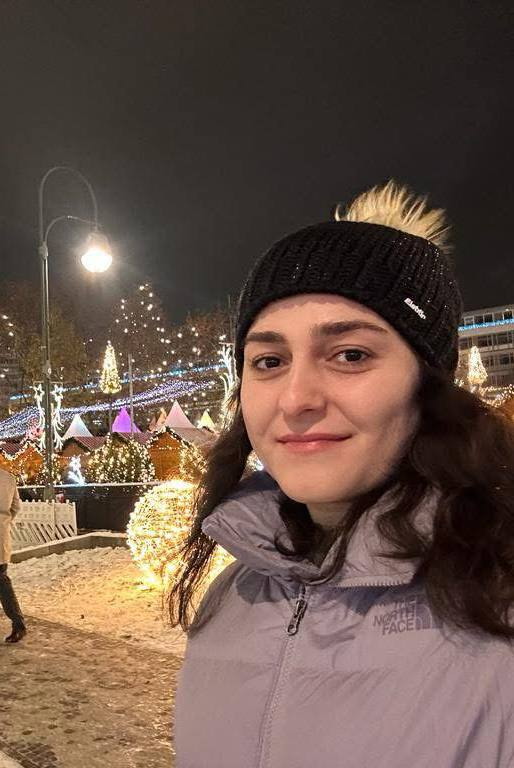
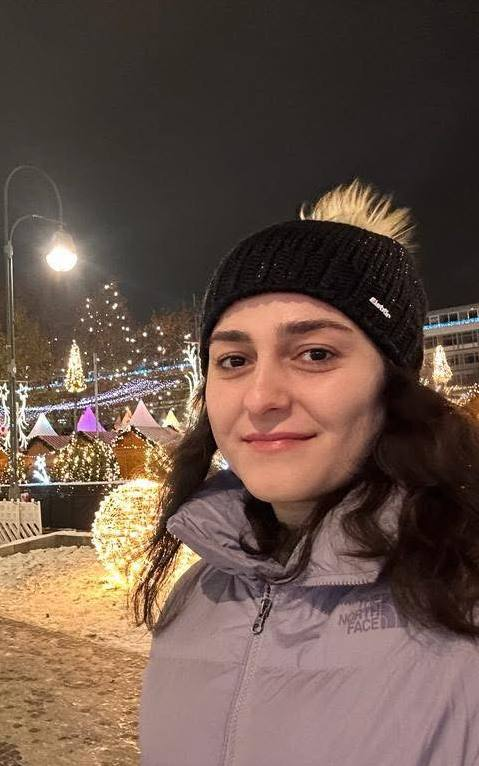
update

Changed region(s): [[0.0, 0.2102, 0.9937, 1.0], [0.8476, 0.9608, 0.9061, 1.0]]

diff --git a/index.html b/index.html
@@ -274,6 +274,7 @@
           <img src="scan_pic_rezaei.jpg" alt="Atefeh Rezaei">
           <p>
             Ph.D. Candidate &amp; Research Engineer<br>
+            School of Electrical Engineering Computer Science<br>
             TU Berlin<br>
             Berlin, Germany<br>
             E-mail: <a href="mailto:atefeh.rezaei@ieee.org">atefeh.rezaei@ieee.org</a><br>
@@ -281,19 +282,14 @@
           </p>
         </div>
 
-        <h2>Research Interests</h2>
-        <ul>
-          <li><strong>6G wireless systems and Integrated Sensing and Communication (ISAC)</strong>, with emphasis on
-            high-mobility mmWave networks</li>
-          <li><strong>Radar signal processing</strong>, including target detection and tracking using MUSIC, matched
-            filtering, and extended Kalman filtering</li>
-          <li><strong>mmWave communications</strong>, including beam management, beam tracking, and channel estimation
-            and prediction</li>
-          <li><strong>UAV-assisted wireless networks</strong>, including trajectory optimization and performance
-            evaluation</li>
-          <li><strong>Optimization-based algorithm design</strong>, including resource allocation and finite blocklength
-            communications</li>
-        </ul>
+<h2>Research Interests</h2>
+<ul>
+  <li><strong>6G Wireless Systems and Integrated Sensing and Communication (ISAC)</strong>: with emphasis on high-mobility mmWave and time-sensitive networks.</li>
+  <li><strong>Radar Signal Processing</strong>: target detection, localization, and tracking using advanced signal processing and estimation techniques, including MUSIC, matched filtering, and extended Kalman filtering.</li>
+  <li><strong>mmWave Communications</strong>: sensing-assisted beam management and tracking, channel estimation and prediction, and robust communication strategies under rapidly time-varying channel conditions.</li>
+  <li><strong>UAV-Assisted Wireless Networks</strong>: joint trajectory design, resource allocation, and system-level optimization for communication and sensing applications.</li>
+  <li><strong>Optimization-Based Algorithm Design</strong>: machine learning, resource allocation, and reliability analysis.</li>
+</ul>
 
         <h2>Selected Publications</h2>
         <ul style="list-style-type: square;">
